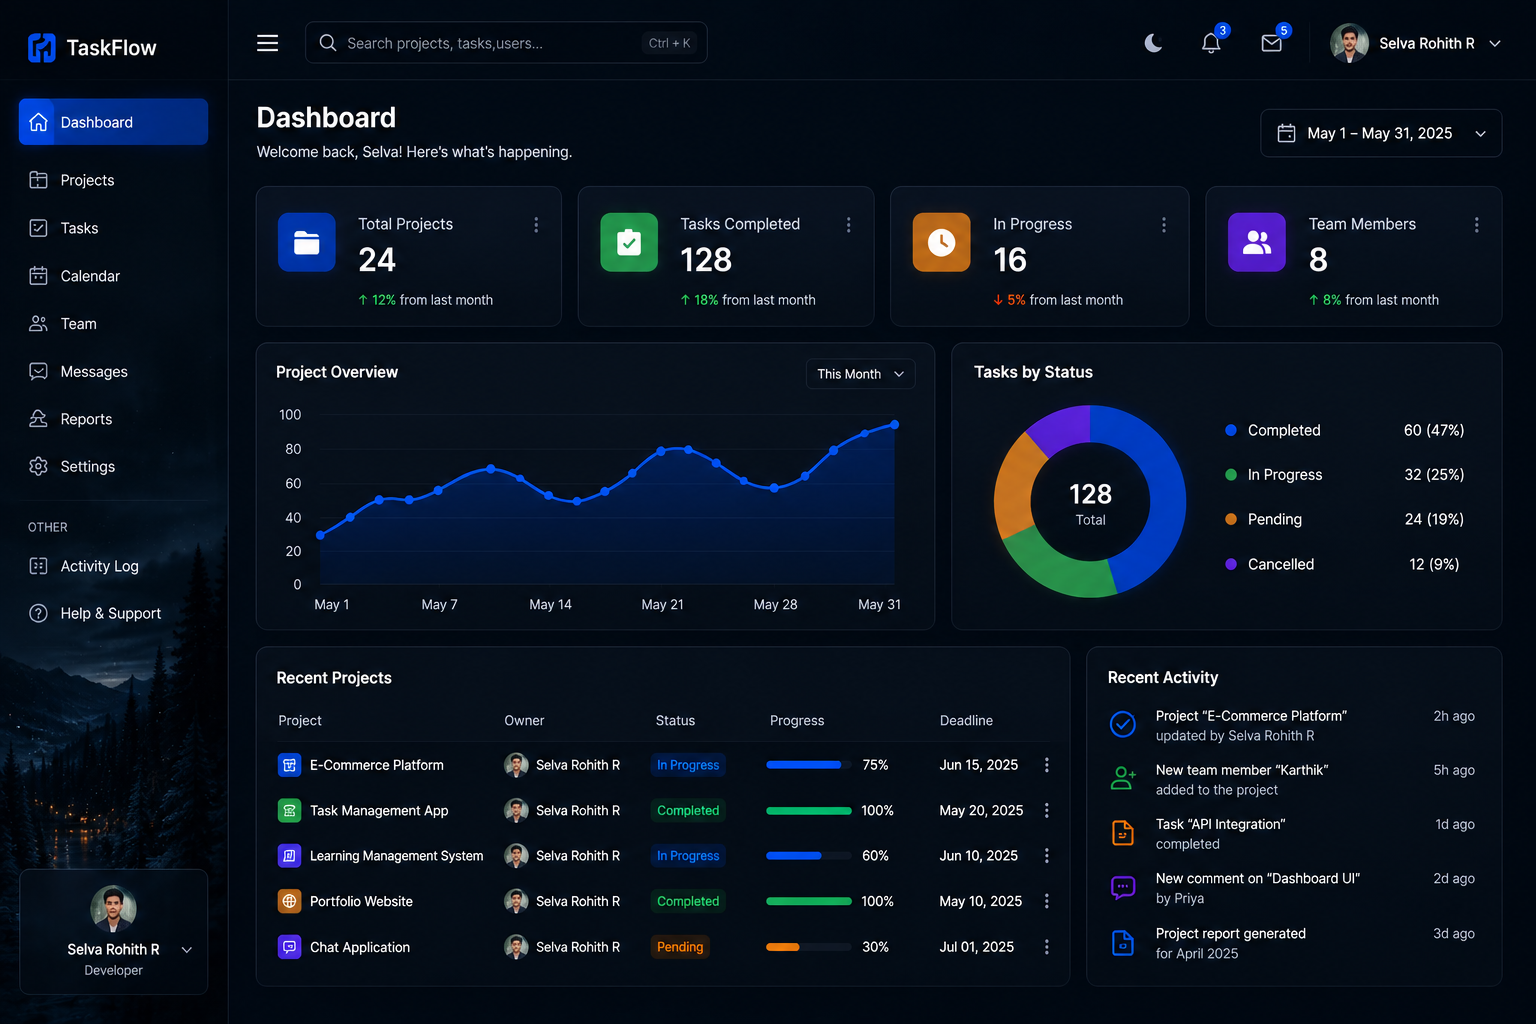
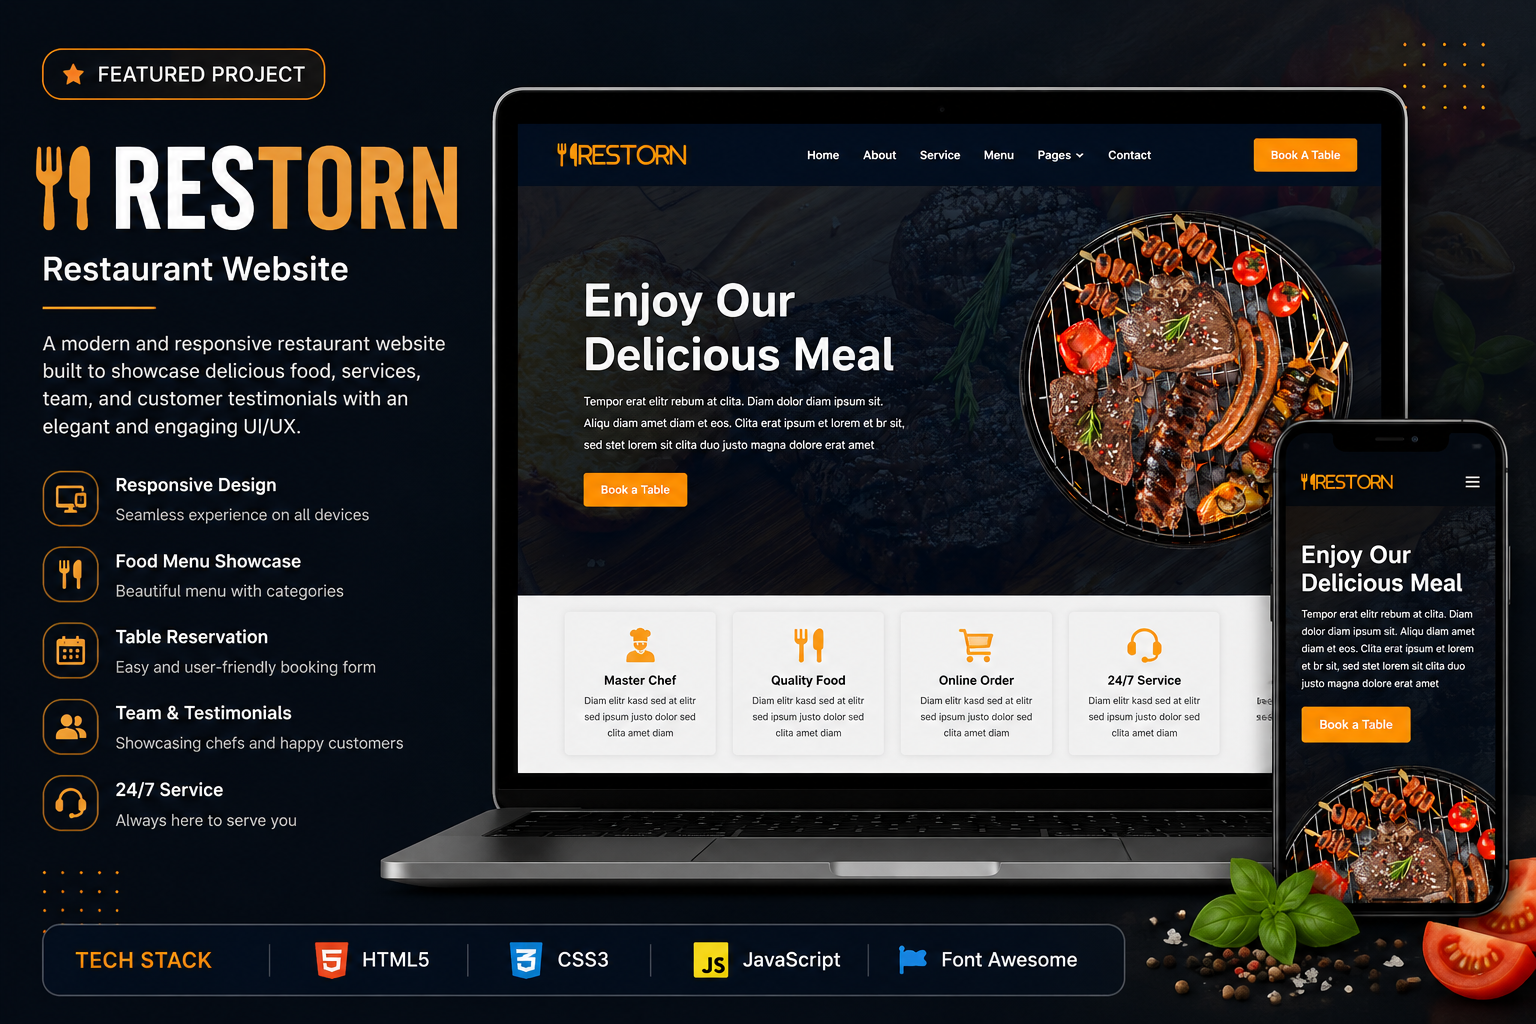
new updates

diff --git a/index.html b/index.html
@@ -181,9 +181,9 @@
                         <img src="image/project-1.png" class="card-img-top" alt="TaskFlow Dashboard"
                             data-bs-toggle="modal" data-bs-target="#projectModal">
                         <div class="card-body">
-                            <h5 class="text-primary">TaskFlow Dashboard</h5>
+                            <h5 class="text-primary">Restorn</h5>
                             <p class="text-light">
-                                Modern task management dashboard.
+                                Modern style food ordering delivering & booking hotel website.
                             </p>
                         </div>
                     </div>
@@ -195,7 +195,7 @@
 
                             <div class="modal-header border-primary">
                                 <h5 class="modal-title text-primary">
-                                    TaskFlow Dashboard
+                                    Restorn 
                                 </h5>
                                 <button type="button" class="btn-close btn-close-white" data-bs-dismiss="modal">
                                 </button>
@@ -203,8 +203,7 @@
                             <div class="modal-body">
                                 <img src="image/project-1.png" class="img-fluid rounded mb-4" alt="Project">
                                 <p class="text-light fs-5 lead">
-                                    A modern task management dashboard designed to help users
-                                    organize tasks, set priorities, and monitor project progress.
+                                    A classic-modern style food ordering delivering & booking hotel website. 
                                 </p>
 
                                 <p class="text-primary">Technologies Used</p>
@@ -216,7 +215,7 @@
                                 </ul>
                             </div>
                             <div class="modal-footer border-primary">
-                                <a href="#" class="btn btn-primary">
+                                <a href="https://restoean.vercel.app/" class="btn btn-primary">
                                     <i class="fas fa-external-link-alt"></i>
                                     Live Preview
                                 </a>
@@ -269,7 +268,7 @@
                             </div>
 
                             <div class="modal-footer border-primary">
-                                <a href="#" class="btn btn-primary">
+                                <a href="https://portfolio-nu-virid-8ssf6u77as.vercel.app/" class="btn btn-primary">
                                     <i class="fas fa-external-link-alt"></i>
                                     Live Preview
                                 </a>
